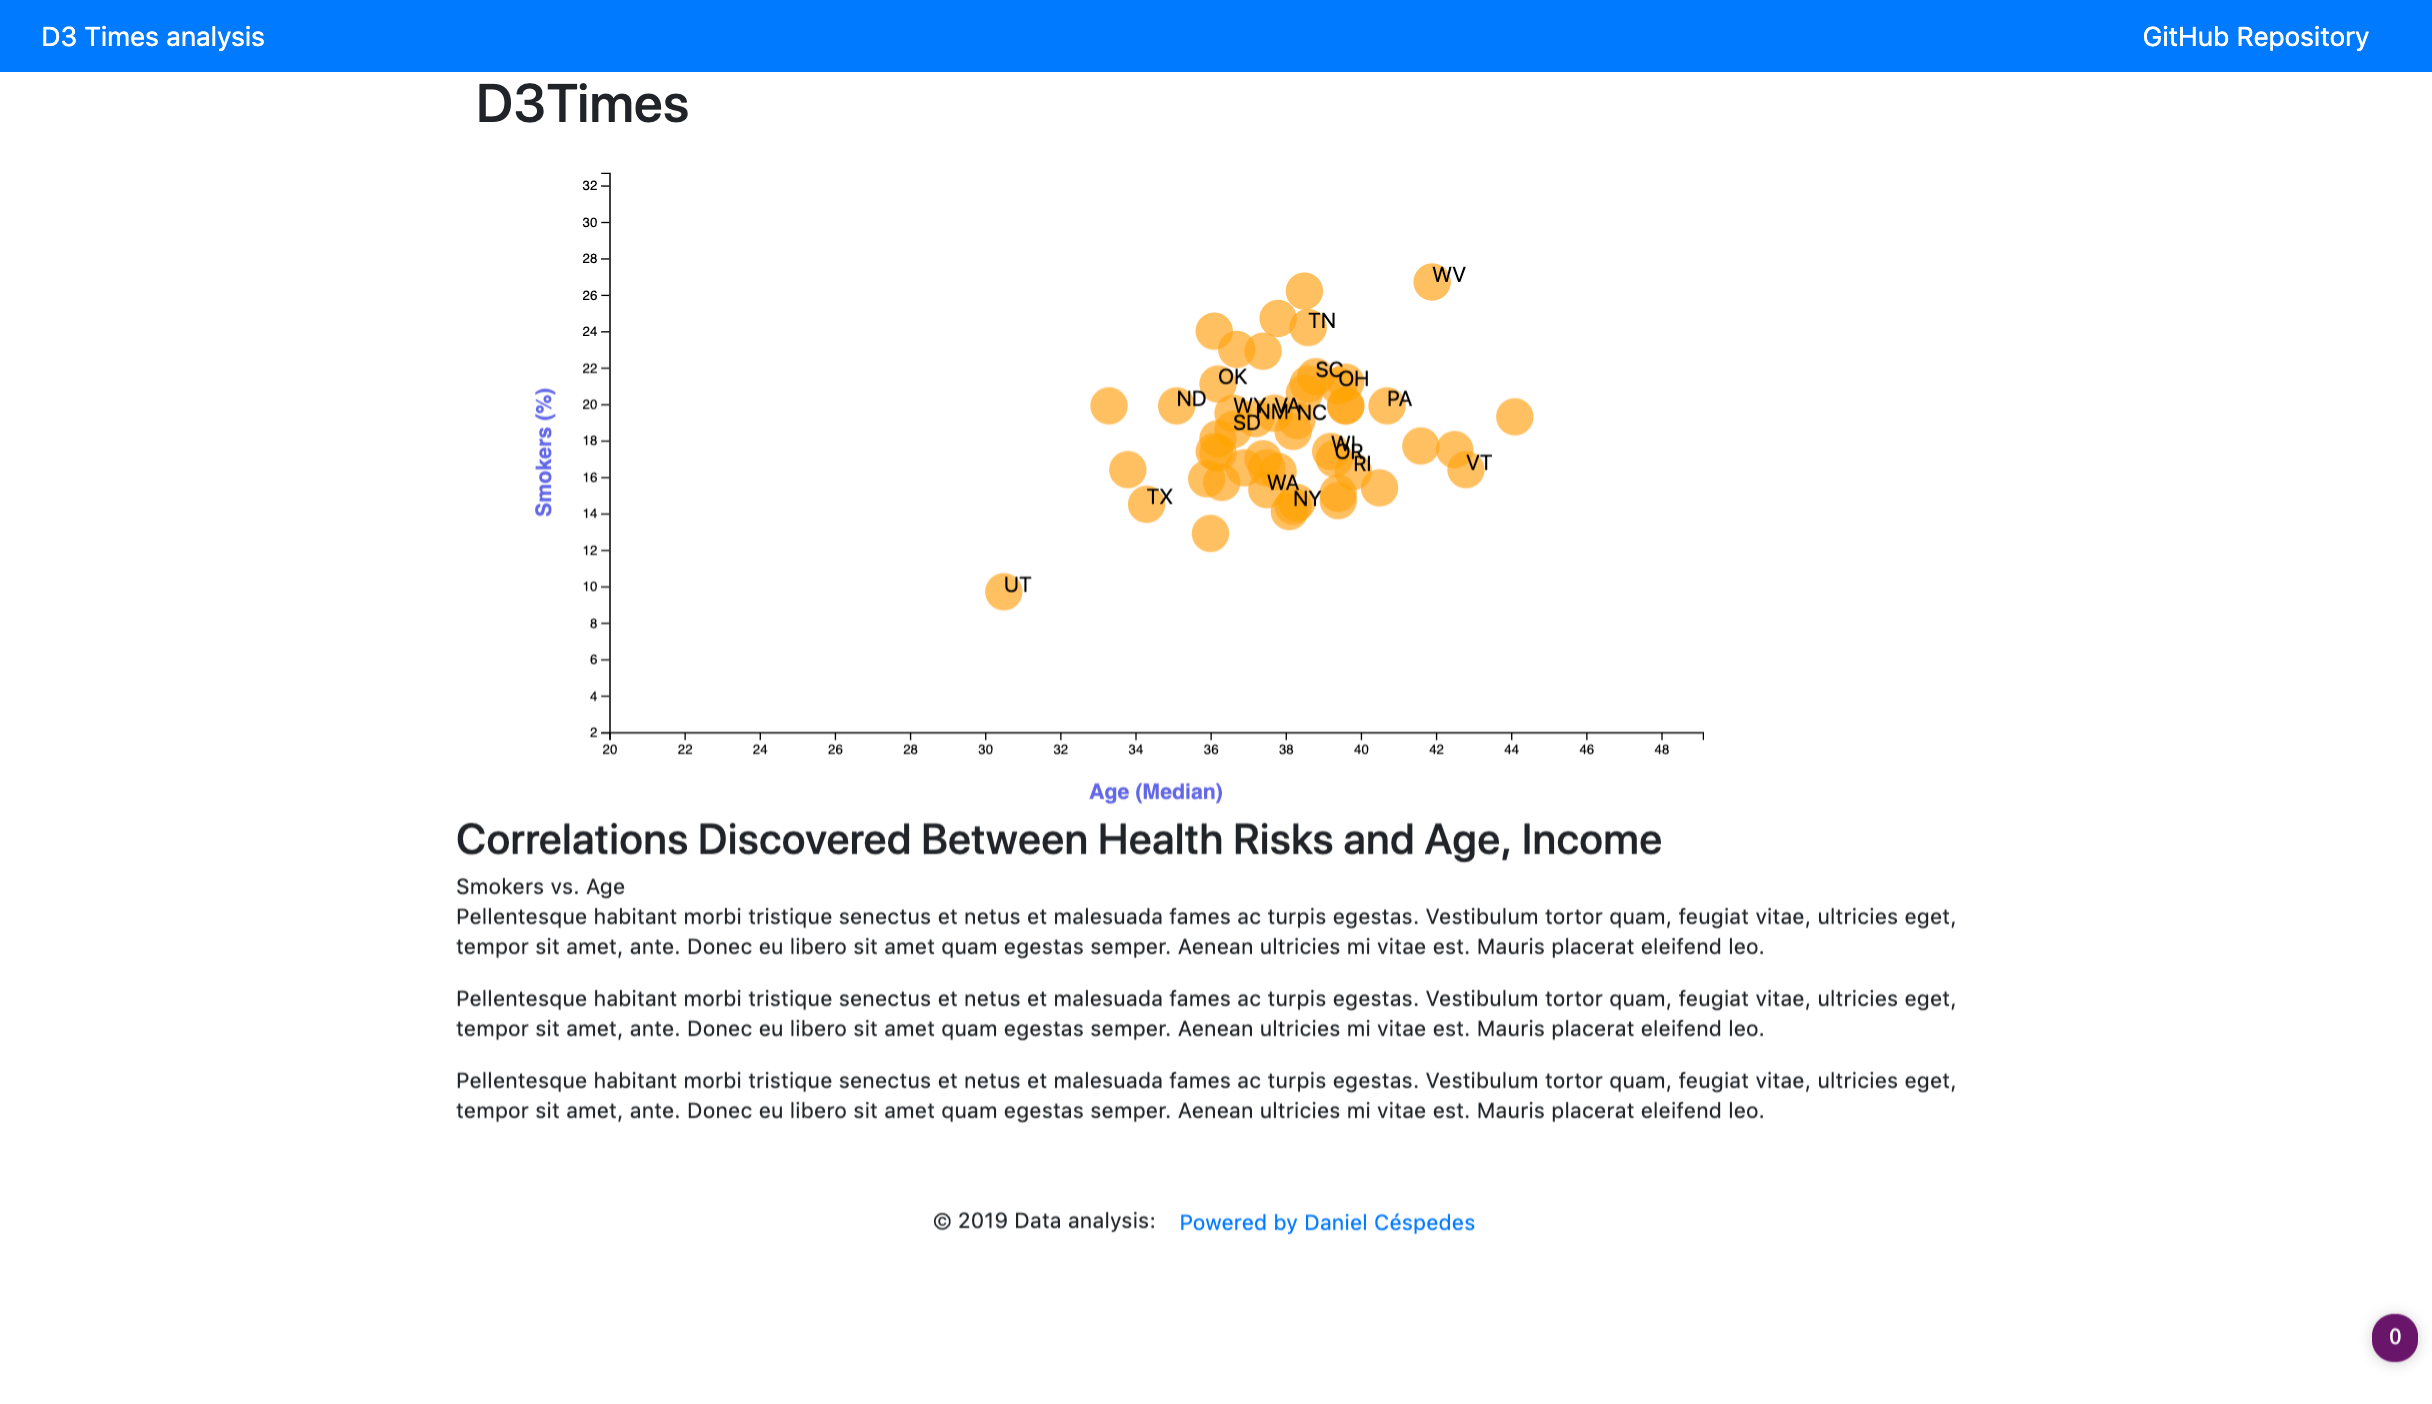
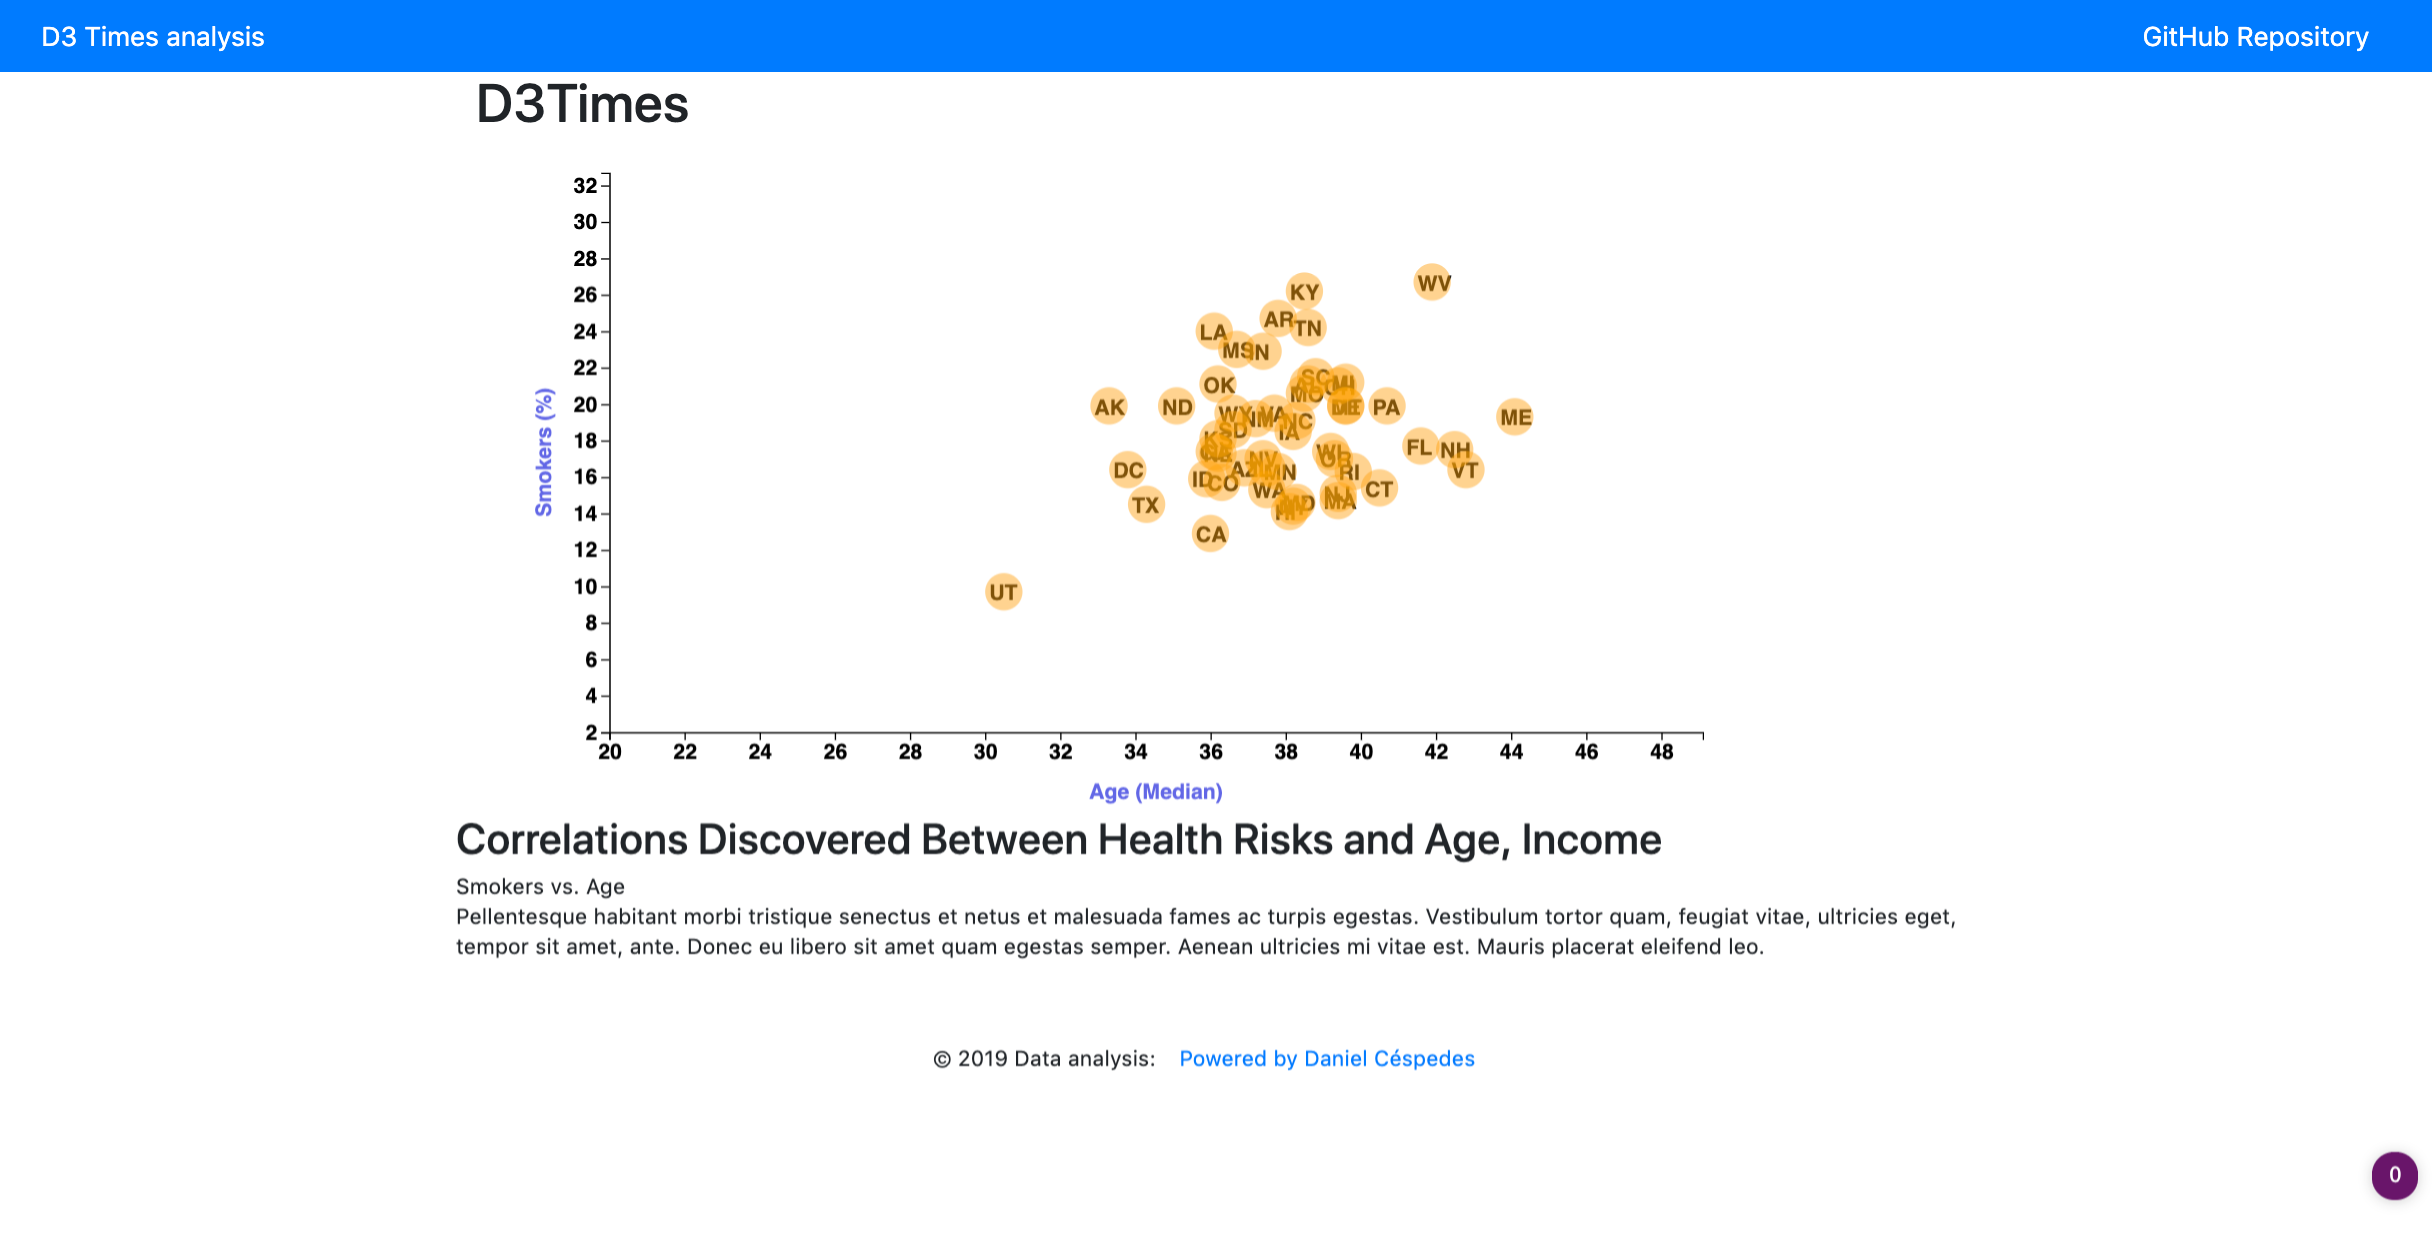
New improvements implemented

diff --git a/assets/js/app.js b/assets/js/app.js
@@ -23,14 +23,16 @@ var chartGroup = svg.append("g")
 // Import Data
 d3.csv("assets/data/data.csv")
   .then(function(journalismData) {
-    console.log(journalismData);
+
 
     // Step 1: Parse Data/Cast as numbers
     // ==============================
     journalismData.forEach(function(data){
       
       // Healthcare vs. Poverty or Smokers vs. Age
+
       data.healthcare = +data.healthcare;
+      
       data.poverty = +data.poverty;
       data.smokes = +data.smokes;
       data.age = +data.age;
@@ -41,8 +43,7 @@ d3.csv("assets/data/data.csv")
       // healthcareLow,healthcareHigh,obesity,obesityLow,obesityHigh,smokes,
       // smokesLow,smokesHigh,-0.385218228
     });
-
-    // journalismData = journalismData.slice(0,5);
+    // journalismData = journalismData.slice(0,34);
 
     // Step 2: Create scale functions
     // ==============================
@@ -70,6 +71,15 @@ d3.csv("assets/data/data.csv")
 
     // Step 5: Create Circles
     // // ==============================
+  var textGroup = chartGroup.selectAll("circle")
+    .data(journalismData)
+    .enter()
+    .append("text")
+    .text(d => d.abbr)
+    .attr("x", d => xLinearScale(d.age) - 11)
+    .attr("y", d => yLinearScale(d.smokes) + 6.5);
+
+
     var circlesGroup = chartGroup.selectAll("circle")
     .data(journalismData)
     .enter()
@@ -78,16 +88,7 @@ d3.csv("assets/data/data.csv")
     .attr("cy", d => yLinearScale(d.smokes))
     .attr("r", "14")
     .attr("fill", "orange")
-    .attr("opacity", ".7");
-
-    var textGroup = chartGroup.selectAll("text")
-    .data(journalismData)
-    .enter()
-    .append("text")
-    .text(d => d.abbr)
-    .attr("x", d => xLinearScale(d.age))
-    .attr("y", d => yLinearScale(d.smokes));
-
+    .attr("opacity", ".5");
     
     // Step 6: Initialize tool tip
     // ==============================
@@ -96,7 +97,7 @@ d3.csv("assets/data/data.csv")
       .offset([80, -60])
       .html(function(d) {
         return (
-          `State: ${d.state}, ${d.abbr}<br>
+          `${d.state}, ${d.abbr}<br>
           Age (Median): ${d.age}<br>
           Smokers (%): ${d.smokes} <br>`);
       });

diff --git a/index.html b/index.html
@@ -42,14 +42,6 @@
           <p>Pellentesque habitant morbi tristique senectus et netus et malesuada fames ac turpis egestas. Vestibulum tortor
             quam, feugiat vitae, ultricies eget, tempor sit amet, ante. Donec eu libero sit amet quam egestas semper. Aenean
             ultricies mi vitae est. Mauris placerat eleifend leo.</p>
-
-          <p>Pellentesque habitant morbi tristique senectus et netus et malesuada fames ac turpis egestas. Vestibulum tortor
-            quam, feugiat vitae, ultricies eget, tempor sit amet, ante. Donec eu libero sit amet quam egestas semper. Aenean
-            ultricies mi vitae est. Mauris placerat eleifend leo.</p>
-
-          <p>Pellentesque habitant morbi tristique senectus et netus et malesuada fames ac turpis egestas. Vestibulum tortor
-            quam, feugiat vitae, ultricies eget, tempor sit amet, ante. Donec eu libero sit amet quam egestas semper. Aenean
-            ultricies mi vitae est. Mauris placerat eleifend leo.</p>
         </div>
       </div>
     </div>
@@ -62,6 +54,8 @@
   <script src="https://cdnjs.cloudflare.com/ajax/libs/d3/5.5.0/d3.min.js"></script>
   <script src="https://cdnjs.cloudflare.com/ajax/libs/d3-tip/0.9.1/d3-tip.js"></script>
   <script type="text/javascript" src="assets/js/app.js"></script>
+
+</body>
 
         <!-- Footer customizations -->
     <footer class="footer">
@@ -76,7 +70,5 @@
         </div> 
     </footer>
 
-
-</body>
-
+    
 </html>

diff --git a/assets/css/style.css b/assets/css/style.css
@@ -50,3 +50,9 @@ body {
   fill: hsla(243, 97%, 43%, 0.66);
   text-anchor: middle;
 }
+
+text {
+  font-size: 16px;
+  font-family: helvetica;
+  font-weight: bold;
+}

diff --git a/README.md b/README.md
@@ -1,2 +1,12 @@
 # Data-Journalism-and-D3
 Data Journalism can be a great analytical asset for data science purposes.
+
+![Landing page](assets/images/screencapture.png)
+
+## Authors
+* Daniel Cespedes - [LinkedIn](https://www.linkedin.com/in/selinzorob/) - [GitHub](https://github.com/danielczz)
+
+- Direct link for application JavaScript: [_JavaScript main script_](assets/js/app.js)
+
+
+
